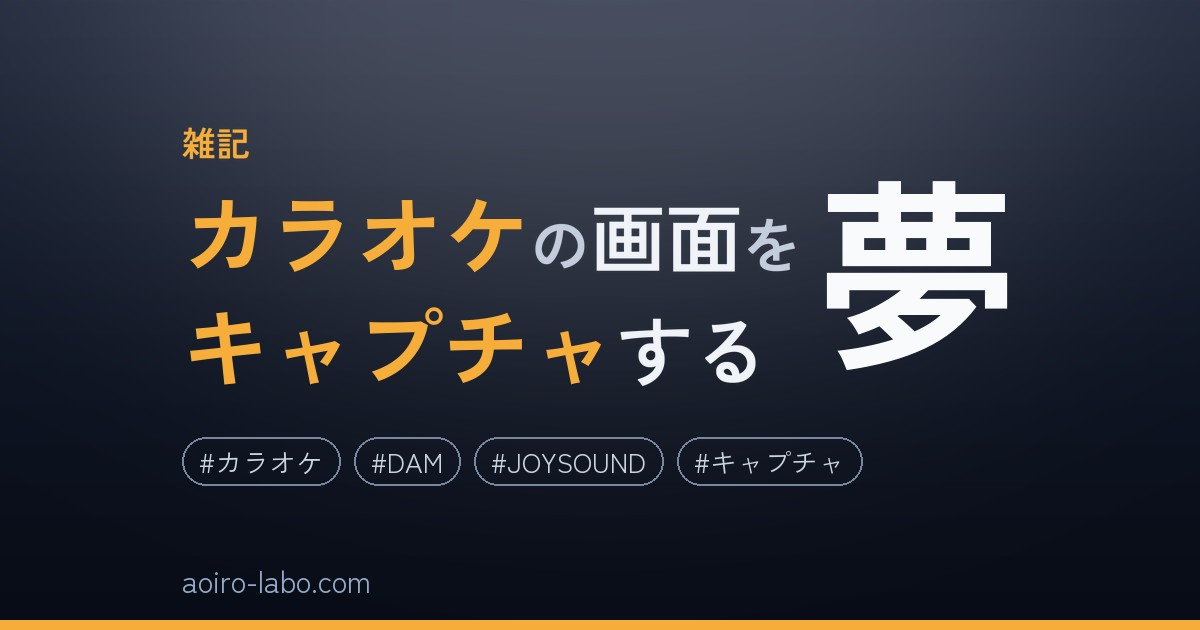
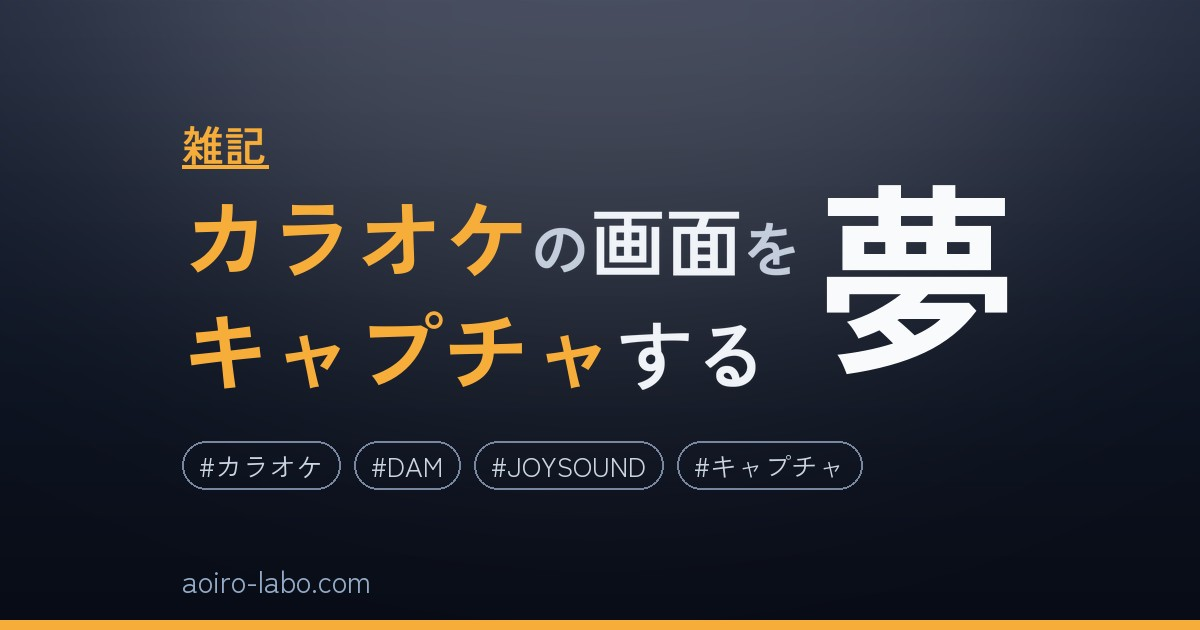
カバー生成：カテゴリ名を42pxに拡大しアクセント色の下線を追加

diff --git a/tools/generate_cover.py b/tools/generate_cover.py
@@ -61,6 +61,12 @@ def draw_semi(img, pos, text, size, fill, baseline=False):
         img.paste(layer, (int(pos[0])-2, int(pos[1])-size), mask)
     else:
         img.paste(layer, (int(pos[0])-2, int(pos[1])), mask)
+
+def draw_cat(d, img, x, y, cat, acc):
+    draw_semi(img, (x, y), cat, 42, acc)
+    w = d.textlength(cat, font=cover_font("Medium", 42)) + 2
+    d.rectangle([x, y+52, x+w, y+55], fill=acc)
+    return 42+30
 W,H=1200,630
 MARGIN=64
 WHITE=(248,250,252)
@@ -455,7 +461,7 @@ def make(path, out, hero_override=None, emphasis_override=None):
         cat = ''
     img = background(acc)
     d = ImageDraw.Draw(img)
-    cat_h = 34+30 if cat else 0
+    cat_h = 42+30 if cat else 0
     chips_h = 48 if tags else 0
     cat_h += bracket_h
 
@@ -523,7 +529,7 @@ def make(path, out, hero_override=None, emphasis_override=None):
             total = cat_h + block_h + (30 if tags else 0) + chips_h
             y = (H - total)//2 - 14
             if cat:
-                draw_semi(img, (MARGIN, y), cat, 34, acc); y += 34+30
+                y += draw_cat(d, img, MARGIN, y, cat, acc)
             if bracket:
                 draw_semi(img, (MARGIN, y), bracket, 40, SUBC); y += bracket_h
             draw_lines(d, img, items, lines, widths, MARGIN, y, size, acc, heights)
@@ -626,7 +632,7 @@ def make(path, out, hero_override=None, emphasis_override=None):
             total = cat_h + block_h + (30 if tags else 0) + chips_h
             y = (H - total)//2 - 14
             if cat:
-                draw_semi(img, (gx, y), cat, 34, acc); y += 34+30
+                y += draw_cat(d, img, gx, y, cat, acc)
             if bracket:
                 draw_semi(img, (gx, y), bracket, 40, SUBC); y += bracket_h
             title_top = y
@@ -670,7 +676,7 @@ def make(path, out, hero_override=None, emphasis_override=None):
     total = cat_h + block_h + (30 if tags else 0) + chips_h
     y = (H - total)//2 - 14
     if cat:
-        draw_semi(img, (MARGIN, y), cat, 34, acc); y += 34+30
+        y += draw_cat(d, img, MARGIN, y, cat, acc)
     if bracket:
         draw_semi(img, (MARGIN, y), bracket, 40, SUBC); y += bracket_h
     draw_lines(d, img, items, lines, widths, MARGIN, y, size, acc, heights)
